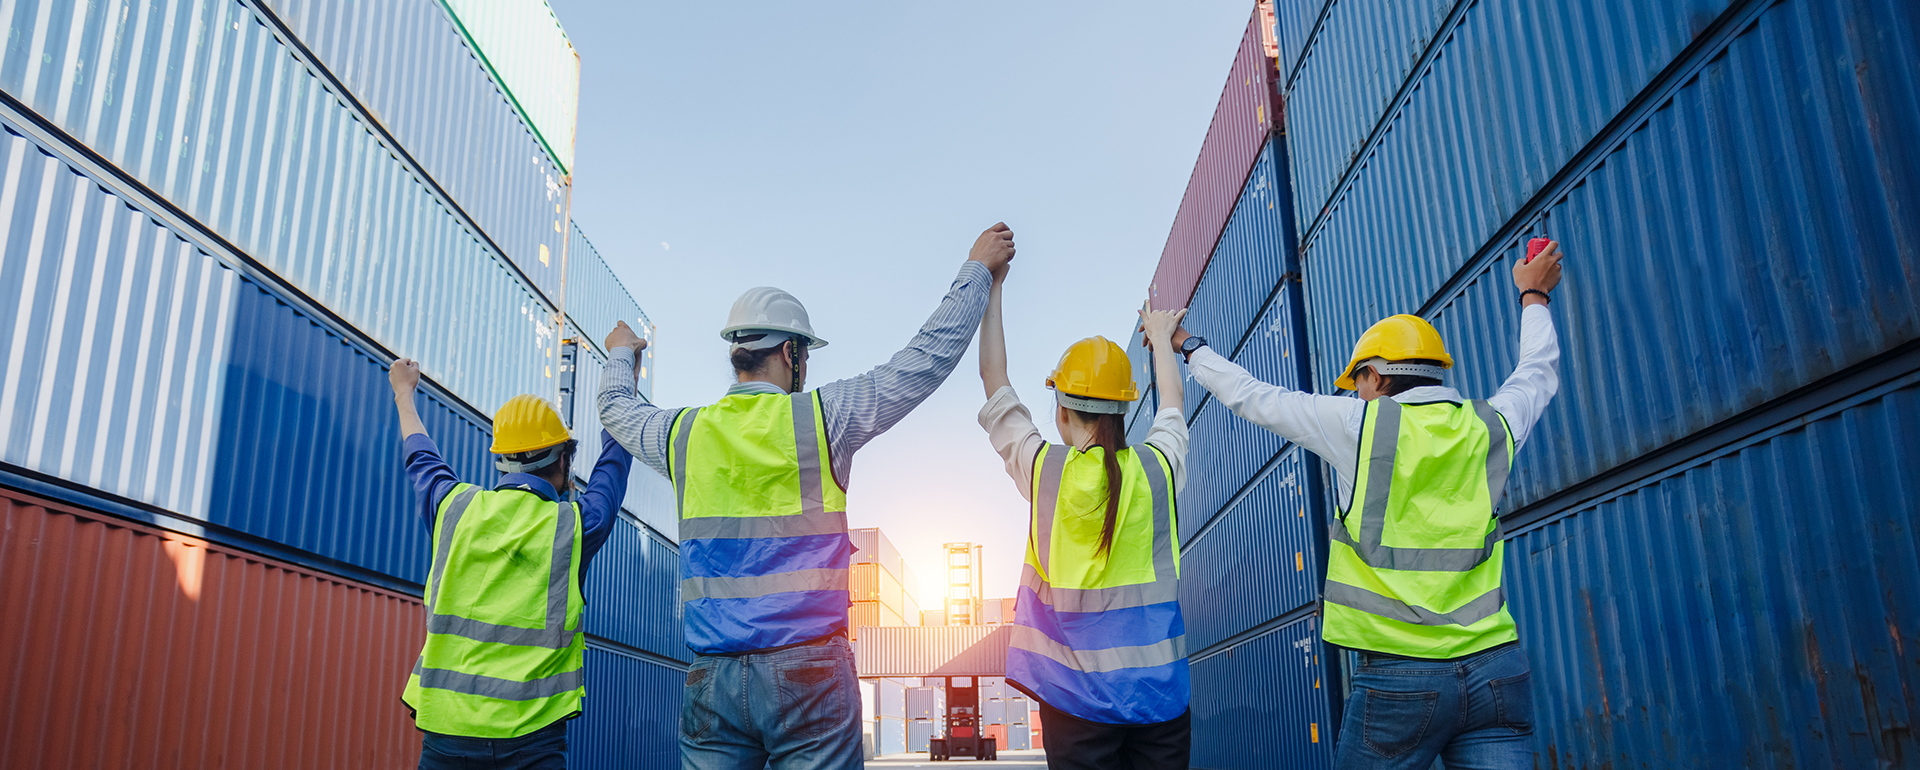
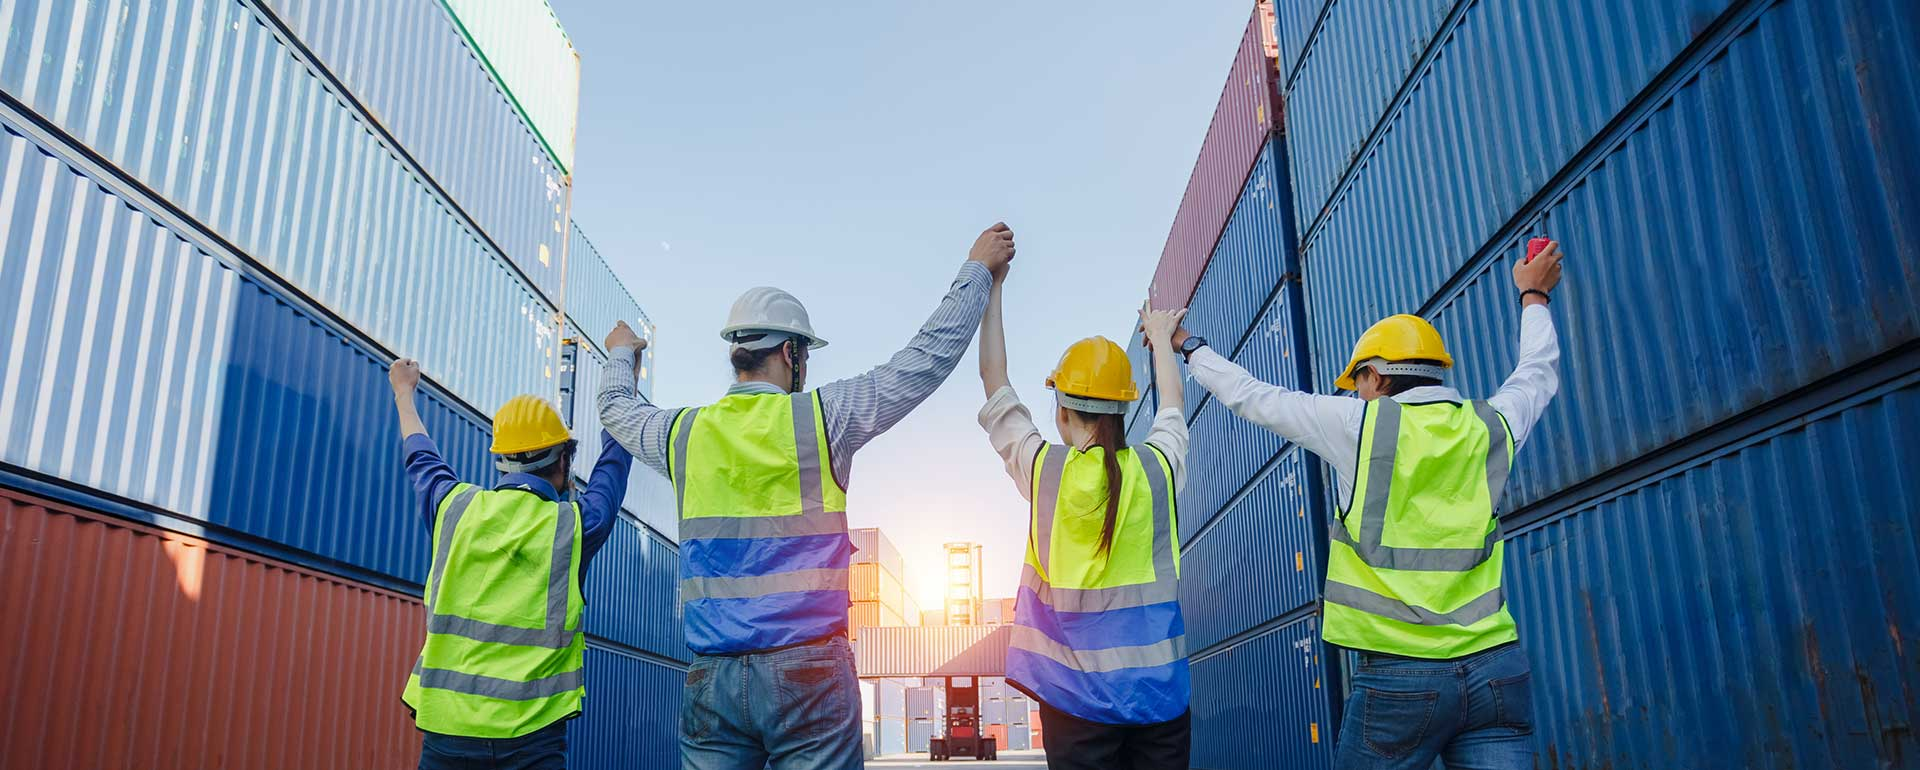
Changes Done

diff --git a/src/app/business-areas/page.tsx b/src/app/business-areas/page.tsx
@@ -10,6 +10,8 @@ import transmission from '../../../public/assets/business-transmission.jpg';
 import hybrid from '../../../public/assets/hybrid-energy.jpg';
 import biogas from '../../../public/assets/business-biogas.jpg';
 import wasteManagement from '../../../public/assets/business-waste-mgmt.jpg';
+import BusinessAreasServices from "@/components/BusinessAreasServices";
+
 const businessAreas = [
   {
     title: "Solar PV",
@@ -122,7 +124,7 @@ const BusinessAreas = () => {
     <div className="min-h-screen bg-white">
       <Navbar />
 
-      <section className="relative h-[60vh] w-full flex items-center justify-center overflow-hidden">
+      <section className="relative h-[40vh] w-full flex items-center justify-center overflow-hidden">
         <Image
           src="/assets/banners/BusinessAreas.jpg"
           alt="Business Areas"
@@ -144,16 +146,16 @@ const BusinessAreas = () => {
       {/* Main Content */}
       <div className="max-w-7xl mx-auto px-4 py-5">
         <div className="text-center mb-16">
-          <h2 className="section-title text-center text-[#062516] mb-10 border-b pb-4 mx-auto max-w-2xl">Business Areas</h2>
+          <h2 className="section-title text-center text-[#062516] mb-10 mx-auto max-w-2xl">Business Areas</h2>
           <p className="text-gray-600 px-6 md:px-12 max-w-7xl mx-auto">
             JIVO Energy delivers integrated renewable energy and sustainable infrastructure solutions across Africa, combining advanced engineering, project development, EPC execution, energy storage technologies, and long-term operational support. With expertise spanning utility-scale Solar PV, Battery Energy Storage Systems (BESS), hybrid energy systems, transmission & distribution infrastructure, and waste-to-energy solutions, we develop reliable, efficient, and future-ready energy ecosystems tailored for emerging markets.<br></br><br></br>
             Our multidisciplinary team specializes in complete project lifecycle execution — from feasibility studies, detailed engineering, grid integration, procurement, construction, commissioning, SCADA integration, and operations & maintenance — ensuring technically optimized and bankable energy solutions for utilities, governments, industries, commercial clients, and development agencies.
 
           </p>
         </div>
-
+            <BusinessAreasServices />
         {/* Business Areas Grid */}
-        <div className="space-y-24">
+        {/* <div className="space-y-24">
           {businessAreas.map((area, index) => {
             const sectionIds = [
               'solar-pv',
@@ -170,8 +172,7 @@ const BusinessAreas = () => {
                 id={sectionIds[index]}
                 className={`grid grid-cols-1 lg:grid-cols-2 gap-12 items-center ${index % 2 === 1 ? 'lg:flex-row-reverse' : ''
                   }`}
-              >
-                {/* Image Section */}
+              >                
                 <div>
                   <div className="relative h-[400px] rounded-lg overflow-hidden shadow-xl">
                     <Image
@@ -183,23 +184,12 @@ const BusinessAreas = () => {
                   </div>
                 </div>
 
-                {/* Content Section */}
+                
                 <div className="space-y-6">
                   <h3 className="text-3xl font-bold text-[#062516]">{area.title}</h3>
                   <h3 className="text-left text-gray-700 font-medium mt-2">{area.imageTitle}</h3>
                   <p className="text-gray-600 leading-relaxed">{area.description}</p>
 
-                  {/*<div className="grid grid-cols-1 sm:grid-cols-2 gap-4">
-                  {area.features.map((feature, featureIndex) => (
-                    <div 
-                      key={featureIndex}
-                      className="flex items-center space-x-3 bg-[#062516]/5 p-4 rounded-lg"
-                    >
-                      <div className="w-2 h-2 bg-[#062516] rounded-full" />
-                      <span className="text-gray-700">{feature}</span>
-                    </div>
-                  ))}
-                </div> */}
 
                   <a
                     href={`/business-areas/${sectionIds[index]}`}
@@ -211,7 +201,7 @@ const BusinessAreas = () => {
               </div>
             );
           })}
-        </div>
+        </div> */}
 
         {/* Call to Action */}
         <div className="mt-24 text-center">

diff --git a/src/app/capabilities/page.tsx b/src/app/capabilities/page.tsx
@@ -19,7 +19,7 @@ export default function Capabilities() {
     <main className="min-h-screen bg-white">
       <Navbar />
 
-      <section className="relative h-[60vh] w-full flex items-center justify-center overflow-hidden">
+      <section className="relative h-[40vh] w-full flex items-center justify-center overflow-hidden">
         <Image
           src="/assets/banners/Capabilities.jpg"
           alt="Capabilities Banner"
@@ -42,9 +42,7 @@ export default function Capabilities() {
       <section className="py-5">
         <div className="container mx-auto px-4">
           <div className="max-w-4xl mx-auto text-center">
-            {/* <h2 className="text-3xl md:text-4xl font-bold text-[#085D36] mb-8">
-              Our Capabilities
-            </h2> */}
+            <h2 className="section-title text-center text-[#062516] mb-10 mx-auto max-w-2xl">Capabilities</h2>
             <p className="text-gray-700 leading-relaxed mb-6">
               JIVO Energy delivers integrated energy and infrastructure solutions across the renewable energy, power, and sustainability sectors, supporting utilities, governments, industries, commercial enterprises, and development organizations across emerging markets. With expertise spanning project development, engineering, EPC execution, digital energy integration, and long-term operational support, we develop reliable, scalable, and future-ready infrastructure tailored to complex operating environments.
             </p>

diff --git a/src/app/business-areas/[slug]/page.tsx b/src/app/business-areas/[slug]/page.tsx
@@ -4,12 +4,12 @@ import Link from 'next/link';
 import Navbar from '@/components/Navbar';
 import Footer from '@/components/Footer';
 import BusinessAreaDetailClient from './BusinessAreaDetailClient';
-import solarPV from '../../../../public/assets/banners/SolarPV.webp';
-import BESS from '../../../../public/assets/banners/BESS.webp';
-import transmission from '../../../../public/assets/banners/TransmissionDistribution.webp';
-import hybridenergy from '../../../../public/assets/banners/Hybrid.webp';
-import biogas from '../../../../public/assets/banners/BiogasBiomethane.webp';
-import wastemanagement from '../../../../public/assets/banners/Wasteanagement-Waste-to-Energy.webp';
+import solarPV from '../../../../public/assets/banners/SolarPV.jpg';
+import BESS from '../../../../public/assets/banners/BESS.jpg';
+import transmission from '../../../../public/assets/banners/TransmissionDistribution.jpg';
+import hybridenergy from '../../../../public/assets/banners/Hybrid.jpg';
+import biogas from '../../../../public/assets/banners/BiogasBiomethane.jpg';
+import wastemanagement from '../../../../public/assets/banners/Wasteanagement-Waste-to-Energy.jpg';
 import { storage } from '@/lib/firebase';
 
 const businessAreasData: {

diff --git a/src/app/esg/page.tsx b/src/app/esg/page.tsx
@@ -19,9 +19,9 @@ export default function SustainabilityPage() {
     <main className="min-h-screen bg-white">
       <Navbar />
 
-      <section className="relative h-[60vh] w-full flex items-center justify-center overflow-hidden">
+      <section className="relative h-[40vh] w-full flex items-center justify-center overflow-hidden">
               <Image
-                src="/assets/banners/ESG.webp"
+                src="/assets/banners/ESG.jpg"
                 alt="ESG Banner"
                 fill
                 className="object-cover"
@@ -35,7 +35,7 @@ export default function SustainabilityPage() {
       <section className="py-5 md:py-5">
         <div className="container mx-auto px-4">
           <div className="max-w-4xl mx-auto text-center">
-            <h2 className="section-title text-center text-[#085D36] mb-8">
+            <h2 className="section-title text-center text-[#062516] mb-10 mx-auto max-w-2xl">
               Our Commitment
             </h2>
             <p className="text-lg text-gray-700 leading-relaxed mb-6">

diff --git a/src/app/contact/page.tsx b/src/app/contact/page.tsx
@@ -137,9 +137,9 @@ const Contact = () => {
       <Navbar />
       
       {/* Hero Section - Reduced height */}
-      <section className="relative h-[60vh] w-full flex items-center justify-center overflow-hidden">
+      <section className="relative h-[40vh] w-full flex items-center justify-center overflow-hidden">
                     <Image
-                      src="/assets/banners/ContactUs.webp" alt="Contact Banner"
+                      src="/assets/banners/ContactUs.jpg" alt="Contact Banner"
                       fill
                       className="object-cover"
                       priority
@@ -149,6 +149,7 @@ const Contact = () => {
 
       {/* Main Content - Optimized spacing */}
       <div className="max-w-7xl mx-auto px-4 py-5">
+        <h2 className="section-title text-center text-[#062516] mb-10 mx-auto max-w-2xl">Contact Us</h2>
         <div className="grid grid-cols-1 lg:grid-cols-2 gap-8">
           {/* Left Column - Office Locations & Social */}
           <div className="space-y-6">

diff --git a/src/app/partners/page.tsx b/src/app/partners/page.tsx
@@ -25,7 +25,7 @@ const Partners = () => {
 
   const renderSection = (title: string, images: string[]) => (
     <div className="mb-16">
-      <h2 className="section-title text-center text-[#062516] mb-10 border-b pb-4 mx-auto max-w-2xl">
+      <h2 className="section-title text-center text-[#062516] mb-10 mx-auto max-w-2xl">
         {title}
       </h2>
       <div className="grid grid-cols-2 md:grid-cols-4 lg:grid-cols-5 gap-6 justify-items-center items-center">
@@ -52,9 +52,9 @@ const Partners = () => {
       <Navbar />
       
       {/* Hero Section */}
-      <section className="relative h-[60vh] w-full flex items-center justify-center overflow-hidden">
+      <section className="relative h-[40vh] w-full flex items-center justify-center overflow-hidden">
               <Image
-                src="/assets/banners/Partners.webp"
+                src="/assets/banners/Partners.jpg"
                 alt="Partners Banner"
                 fill
                 className="object-cover"

diff --git a/src/app/certificate/page.tsx b/src/app/certificate/page.tsx
@@ -48,8 +48,8 @@ const Certificate = () => {
       <Navbar />
       
       {/* Hero Section */}
-      <section className="relative h-[60vh] w-full flex items-center justify-center overflow-hidden">
-              <Image src="/assets/banners/Certifications.webp" alt="Certifications Banner"
+      <section className="relative h-[40vh] w-full flex items-center justify-center overflow-hidden">
+              <Image src="/assets/banners/Certifications.jpg" alt="Certifications Banner"
                 fill
                 className="object-cover"
                 priority
@@ -59,7 +59,9 @@ const Certificate = () => {
 
       {/* Main Content */}
       <div className="max-w-7xl mx-auto px-4 py-5">
+        <h2 className="section-title text-center text-[#062516] mb-10 mx-auto max-w-2xl">Certifications</h2>
         <div className="grid grid-cols-2 md:grid-cols-3 lg:grid-cols-4 gap-6">
+          
           {certifications.map((cert, index) => (
             <a 
               key={index}

diff --git a/src/app/about/page.tsx b/src/app/about/page.tsx
@@ -38,9 +38,9 @@ export default function AboutPage() {
       <Navbar />
 
       {/* Hero Section */}
-      <section className="relative h-[60vh] w-full flex items-center justify-center overflow-hidden">
+      <section className="relative h-[40vh] w-full flex items-center justify-center overflow-hidden">
         <Image
-          src="/assets/banners/AboutUs.webp"
+          src="/assets/banners/AboutUs.jpg"
           alt="About Banner"
           fill
           className="object-cover"
@@ -60,6 +60,7 @@ export default function AboutPage() {
 
       {/* Company Overview */}
       <section className="py-5 px-6 max-w-7xl mx-auto">{/* md:px-12 */}
+        <h2 className="section-title text-center text-[#062516] mb-10 mx-auto max-w-2xl">About Us</h2>
         <motion.div
           initial={{ opacity: 0, y: 20 }}
           whileInView={{ opacity: 1, y: 0 }}

diff --git a/src/app/projects/[id]/page.tsx b/src/app/projects/[id]/page.tsx
@@ -133,7 +133,7 @@ const ProjectDetailPage = () => {
                                 <div className="space-y-6">
                                     <div className="flex items-start gap-4 p-4 bg-white/5 rounded-2xl border border-white/10">
                                         <div className="p-3 bg-white/10 rounded-xl">
-                                            <Zap className="w-6 h-6 text-[#FFFA84]" />
+                                            <Zap className="w-6 h-6 text-[#085D36]" />
                                         </div>
                                         <div>
                                             <p className="text-white/60 text-xs font-bold uppercase tracking-widest mb-1">Capacity</p>

diff --git a/src/app/careers/page.tsx b/src/app/careers/page.tsx
@@ -147,7 +147,7 @@ const Careers = () => {
       {/* Introduction Section */}
       <section className="py-5 px-4 max-w-7xl mx-auto">
         <div className="text-center max-w-7xl mx-auto mb-16">
-          <h2 className="section-title text-center text-[#062516] mb-10 border-b pb-4 mx-auto max-w-2xl">Careers</h2>
+          <h2 className="section-title text-center text-[#062516] mb-10 mx-auto max-w-2xl">Careers</h2>
           <p className="text-lg text-gray-600 leading-relaxed">
             At JIVO Energy, we are committed to building a highly skilled, diverse, and performance-driven workforce.
             As we broaden our portfolio and expand our presence across the region, we continue to seek professionals

diff --git a/src/app/media/page.tsx b/src/app/media/page.tsx
@@ -8,9 +8,9 @@ export default function MediaPage() {
   return (
     <main className="relative min-h-screen w-full bg-[#062516]">
       <Navbar />
-      <section className="relative h-[60vh] w-full flex items-center justify-center overflow-hidden">
+      <section className="relative h-[40vh] w-full flex items-center justify-center overflow-hidden">
         <Image
-          src="/assets/banners/Media.webp"
+          src="/assets/banners/Media.jpg"
           alt="Media Banner"
           fill
           className="object-cover"

diff --git a/src/app/projects/page.tsx b/src/app/projects/page.tsx
@@ -170,7 +170,7 @@ const ProjectsPage = () => {
     <div className="min-h-screen bg-gray-50 font-sans selection:bg-[#FFFA84] selection:text-[#062516]">
       <Navbar />
      
-     <section className="relative h-[60vh] w-full flex items-center justify-center overflow-hidden">
+     <section className="relative h-[40vh] w-full flex items-center justify-center overflow-hidden">
                    <Image
                      src="/assets/banners/Projects.jpg"
                      alt="Projects Banner"
